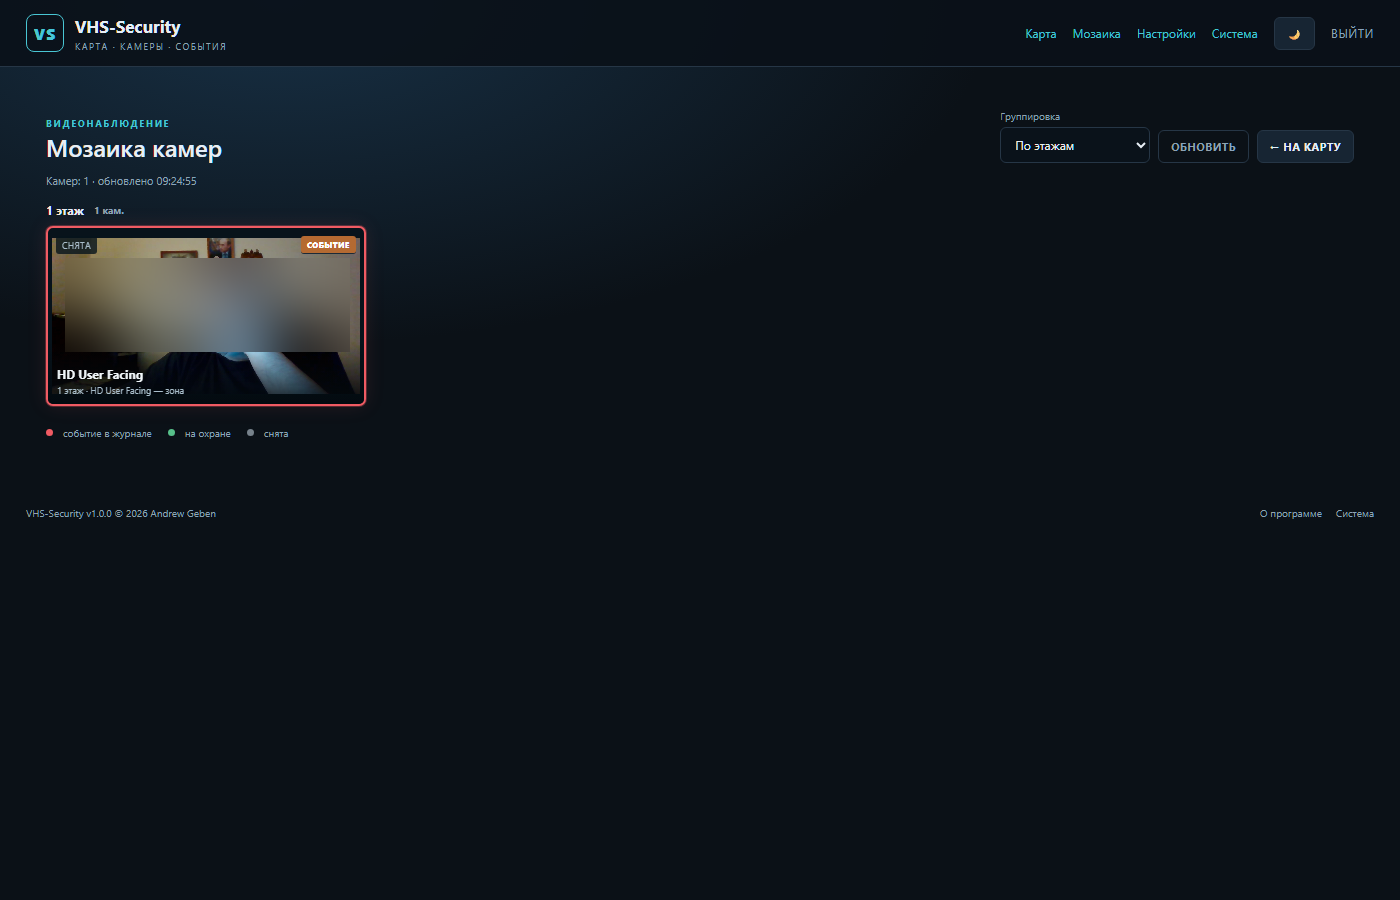
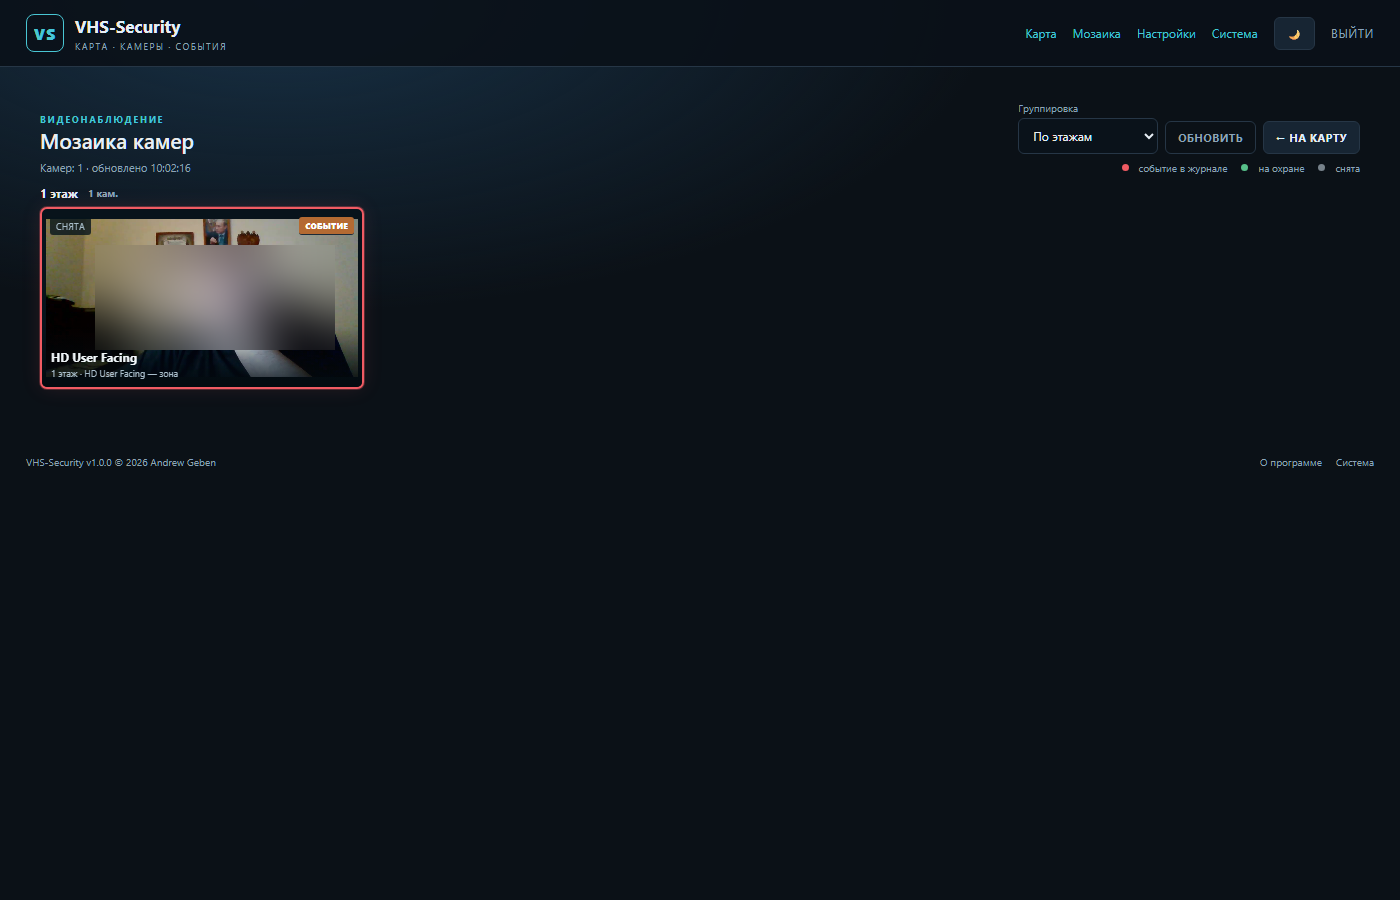
Move mosaic legend to top and compact layout

diff --git a/static/css/mosaic.css b/static/css/mosaic.css
@@ -1,14 +1,15 @@
-.mosaic-page{padding:18px 22px 30px;max-width:1800px;margin:0 auto}
-.mosaic-head{display:flex;align-items:flex-end;justify-content:space-between;gap:16px;flex-wrap:wrap;margin-bottom:10px}
-.mosaic-head h1{margin:2px 0 0;font-size:24px}
-.mosaic-controls{display:flex;align-items:flex-end;gap:8px;flex-wrap:wrap}
-.mosaic-controls label{display:grid;gap:4px;font-size:10px;color:var(--muted)}
-.mosaic-controls select{min-width:150px}
-.mosaic-status{font-size:11px;color:var(--muted);margin:4px 0 14px}
-.mosaic-group{margin:0 0 20px}
-.mosaic-group-head{display:flex;align-items:center;gap:10px;margin:0 0 8px;font-size:12px;color:var(--ink)}
+.mosaic-page{padding:10px 16px 16px;max-width:1800px;margin:0 auto}
+.mosaic-head{display:flex;align-items:flex-end;justify-content:space-between;gap:12px;flex-wrap:wrap;margin-bottom:6px}
+.mosaic-head h1{margin:1px 0 0;font-size:21px}
+.mosaic-controls{display:flex;align-items:flex-end;gap:7px;flex-wrap:wrap}
+.mosaic-controls label{display:grid;gap:3px;font-size:10px;color:var(--muted)}
+.mosaic-controls select{min-width:140px}
+.mosaic-topline{display:flex;align-items:center;justify-content:space-between;gap:10px;flex-wrap:wrap;margin:2px 0 10px}
+.mosaic-status{font-size:11px;color:var(--muted)}
+.mosaic-group{margin:0 0 14px}
+.mosaic-group-head{display:flex;align-items:center;gap:10px;margin:0 0 6px;font-size:12px;color:var(--ink)}
 .mosaic-group-head span{color:var(--muted);font-size:10px}
-.mosaic-grid{display:grid;grid-template-columns:repeat(auto-fill,minmax(300px,1fr));gap:10px}
+.mosaic-grid{display:grid;grid-template-columns:repeat(auto-fill,minmax(280px,1fr));gap:8px;align-content:start}
 .mosaic-tile{position:relative;aspect-ratio:16/9;min-height:150px;overflow:hidden;background:#08131b;border:2px solid #284052;border-radius:7px;transition:border-color .2s,box-shadow .2s}
 .mosaic-tile.armed{border-color:#3d7c5d}
 .mosaic-tile.event{border-color:var(--red);box-shadow:0 0 0 1px rgba(240,91,99,.3),0 0 20px rgba(240,91,99,.12)}
@@ -23,7 +24,7 @@
 .mosaic-badge{position:absolute;top:8px;right:8px;padding:3px 6px;border-radius:3px;background:var(--red);color:#fff;font-size:8px;font-weight:800;letter-spacing:.04em;text-transform:uppercase}
 .mosaic-badge.event{background:#b46a32}
 .mosaic-player-error{position:absolute;inset:0;display:flex;align-items:center;justify-content:center;padding:16px;text-align:center;font-size:10px;color:#ff9aa2;background:rgba(8,15,20,.72);z-index:2}
-.mosaic-legend{display:flex;gap:16px;flex-wrap:wrap;color:var(--muted);font-size:10px;margin-top:12px}
+.mosaic-legend{display:flex;gap:14px;flex-wrap:wrap;color:var(--muted);font-size:10px;margin:0}
 .mosaic-legend span{display:flex;align-items:center;gap:5px}
 .mosaic-legend .dot{width:7px;height:7px;border-radius:50%;display:inline-block}
 .mosaic-legend .dot.red{background:var(--red)}

diff --git a/templates/mosaic.html b/templates/mosaic.html
@@ -19,9 +19,11 @@
       <a class="button" href="{{ url_for('index') }}">← На карту</a>
     </div>
   </div>
-  <div class="mosaic-status" id="mosaicStatus">Загрузка камер…</div>
+  <div class="mosaic-topline">
+    <div class="mosaic-status" id="mosaicStatus">Загрузка камер…</div>
+    <div class="mosaic-legend"><span><i class="dot red"></i> событие в журнале</span><span><i class="dot green"></i> на охране</span><span><i class="dot gray"></i> снята</span></div>
+  </div>
   <div id="mosaicGroups"></div>
-  <div class="mosaic-legend"><span><i class="dot red"></i> событие в журнале</span><span><i class="dot green"></i> на охране</span><span><i class="dot gray"></i> снята</span></div>
 </div>
 {% endblock %}
 {% block scripts %}
